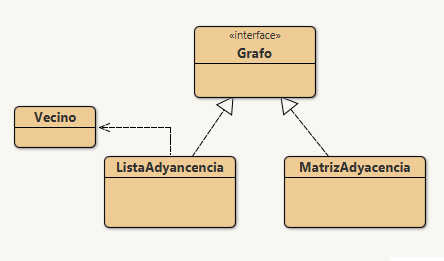
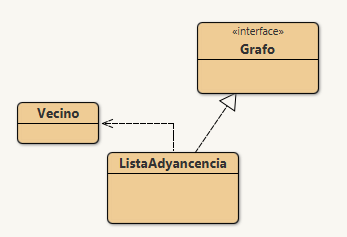
mejora en el VerificadorDirigido, update README

diff --git a/src/test/ListaAdyacenciaTest3.java b/src/test/ListaAdyacenciaTest3.java
@@ -9,12 +9,12 @@ import java.util.ArrayList;
 
 import static org.junit.Assert.*;
 
-public class ListaAdyacenciaTest2 {
+public class ListaAdyacenciaTest3 {
     private ListaAdyacencia grafo;
     @Before
     public void setUp() {
         grafo = new ListaAdyacencia(false);
-        int[] nodos = {0, 1, 2, 3};
+        int[] nodos = {0, 1, 2, 3, 4};
 
         for (int nodo : nodos) {
             grafo.insertarVertice(nodo);
@@ -23,20 +23,24 @@ public class ListaAdyacenciaTest2 {
         grafo.insertarArista(0, 1);
         grafo.insertarArista(0, 2);
         grafo.insertarArista(0, 3);
+        grafo.insertarArista(0, 4);
         grafo.insertarArista(1, 2);
         grafo.insertarArista(1, 3);
         grafo.insertarArista(2, 3);
+        grafo.insertarArista(2, 4);
+        grafo.insertarArista(3, 4);
+        grafo.insertarArista(4, 1);
 
     }
 
     @Test
     public void getNumVertices() {
-        assertEquals(4, grafo.getNumVertices());
+        assertEquals(5, grafo.getNumVertices());
     }
 
     @Test
     public void getNumAristas() {
-        assertEquals(6, grafo.getNumAristas());
+        assertEquals(10, grafo.getNumAristas());
     }
 
     @Test
@@ -45,24 +49,13 @@ public class ListaAdyacenciaTest2 {
     }
 
     @Test
-    public void getPesoArista() throws Exception {
-        double peso = grafo.getPesoArista(0, 1);
-        assertEquals(Double.MIN_VALUE, peso, 0.001);
+    public void noExisteArista() {
+        assertFalse(grafo.existeArista(0, 0));
     }
 
     @Test
-    public void getAdyacentesCero() {
-        ArrayList<Vecino> adyacentes = new ArrayList<Vecino>();
-        adyacentes.add(new Vecino(3, Double.MIN_VALUE));
-        adyacentes.add(new Vecino(1, Double.MIN_VALUE));
-        adyacentes.add(new Vecino(2, Double.MIN_VALUE));
-
-        boolean iguales = true;
-        for (Vecino vecino : grafo.getAdyacentes(0)) {
-            if(!adyacentes.contains(vecino)) iguales = false;
-        }
-
-        assertTrue(iguales);
+    public void getPesoArista() throws Exception{
+        assertEquals(Double.MIN_VALUE, grafo.getPesoArista(0, 1), 0.0);
     }
 
     @Test
@@ -71,6 +64,7 @@ public class ListaAdyacenciaTest2 {
         adyacentes.add(new Vecino(0, Double.MIN_VALUE));
         adyacentes.add(new Vecino(1, Double.MIN_VALUE));
         adyacentes.add(new Vecino(2, Double.MIN_VALUE));
+        adyacentes.add(new Vecino(4, Double.MIN_VALUE));
 
         boolean iguales = true;
         for (Vecino vecino : grafo.getAdyacentes(3)) {
@@ -82,8 +76,8 @@ public class ListaAdyacenciaTest2 {
 
     @Test
     public void quitarArista() {
-        grafo.quitarArista(0, 3);
-        assertFalse(grafo.existeArista(0, 3));
+        grafo.quitarArista(0, 1);
+        assertFalse(grafo.existeArista(0, 1));
     }
 
     @Test
@@ -98,7 +92,7 @@ public class ListaAdyacenciaTest2 {
 
     @Test
     public void esGrafoRueda() {
-        assertTrue(grafo.esGrafoRueda());
+        assertFalse(grafo.esGrafoRueda());
     }
 
     @Test
@@ -108,7 +102,7 @@ public class ListaAdyacenciaTest2 {
 
     public static void main(String[] args) {
         ListaAdyacencia grafo = new ListaAdyacencia(false);
-        int[] nodos = {0, 1, 2, 3};
+        int[] nodos = {0, 1, 2, 3, 4};
 
         for (int nodo : nodos) {
             grafo.insertarVertice(nodo);
@@ -117,9 +111,13 @@ public class ListaAdyacenciaTest2 {
         grafo.insertarArista(0, 1);
         grafo.insertarArista(0, 2);
         grafo.insertarArista(0, 3);
+        grafo.insertarArista(0, 4);
         grafo.insertarArista(1, 2);
         grafo.insertarArista(1, 3);
         grafo.insertarArista(2, 3);
+        grafo.insertarArista(2, 4);
+        grafo.insertarArista(3, 4);
+        grafo.insertarArista(4, 1);
 
         grafo.dibujarGrafo();
     }

diff --git a/src/main/Main.java b/src/main/Main.java
@@ -1,28 +1,30 @@
 package main;
-import org.junit.Test;
-import org.junit.jupiter.api.AfterEach;
-
-import static org.junit.jupiter.api.Assertions.*;
-
-import logic.ListaAdyacencia;
 
 public class Main {
-    @Test
-    public void test1() {
-        ListaAdyacencia grafo = new ListaAdyacencia(true);
-        int[] nodos = {0, 1, 2, 3};
+    public static void main(String[] args) {
+        Thread test1 = new Thread(new Runnable() {
+            @Override
+            public void run() {
+                org.junit.runner.JUnitCore.main("test.ListaAdyacenciaTest1");
+            }
+        });
 
-        for (int nodo : nodos) {
-            grafo.insertarVertice(nodo);
-        }
+        Thread test2 = new Thread(new Runnable() {
+            @Override
+            public void run() {
+                org.junit.runner.JUnitCore.main("test.ListaAdyacenciaTest2");
+            }
+        });
 
-        grafo.insertarArista(0, 1, 3);
-        grafo.insertarArista(3, 0, 3);
-        grafo.insertarArista(3, 1, 2);
-        grafo.insertarArista(3, 2, 10);
-        grafo.insertarArista(2, 1, 9);
-        grafo.insertarArista(2, 0, 6);
+        Thread test3 = new Thread(new Runnable() {
+            @Override
+            public void run() {
+                org.junit.runner.JUnitCore.main("test.ListaAdyacenciaTest3");
+            }
+        });
 
-        assertEquals(grafo.getNumVertices(),4);
+        test1.start();
+        test2.start();
+        test3.start();
     }
 }

diff --git a/src/logic/VerificadorDirigido.java b/src/logic/VerificadorDirigido.java
@@ -1,5 +1,7 @@
 package logic;
 
+import java.util.ArrayList;
+
 public class VerificadorDirigido extends Verificador {
     public VerificadorDirigido(Grafo grafo) {
         super(grafo);
@@ -9,14 +11,29 @@ public class VerificadorDirigido extends Verificador {
     public boolean esCompleto() {
         int nVertices = grafo.getNumVertices();
         int nAristas    = grafo.getNumAristas();
-        return 2*((nVertices*(nVertices-1))/2) == nAristas;
+        int a = nVertices*(nVertices-1)/2;
+        int b = 2*((nVertices*(nVertices-1))/2);
+        return  nAristas >= a && nAristas <= b;
     }
 
     @Override
     public boolean esGrafoCiclo() {
-        int nVertices = grafo.getNumVertices();
-        int nAristas    = grafo.getNumAristas();
-        return 2*nVertices == nAristas;
+        int ini = 0, v = ini, ant = grafo.getNumVertices() - 1;
+        for(int i = 0; i < grafo.getNumVertices(); i++) {
+            ArrayList<Vecino> vecinos = (ArrayList<Vecino>) grafo.getAdyacentes(v);
+            if(vecinos.size() > 2) return false;
+            else{
+                int aux = v;
+                for (Vecino vecino : vecinos) {
+                    if(vecino.getValor() != ant){
+                        aux = vecino.getValor();
+                    }
+                }
+                ant = v;
+                v = aux;
+            }
+        }
+        return ini == v;
     }
 
     @Override

diff --git a/src/logic/Verificador.java b/src/logic/Verificador.java
@@ -14,20 +14,12 @@ public abstract class Verificador {
     public abstract boolean esGrafoRueda();
 
     protected boolean existeBucle() {
-        if(grafo instanceof ListaAdyacencia) {
-            ListaAdyacencia g = (ListaAdyacencia) grafo;
-            HashMap<Integer, ArrayList<Vecino>> gM = g.getGrafo();
-            for(Integer i : gM.keySet()) {
-                ArrayList<Vecino> vecinos = gM.get(i);
-                for(Vecino v : vecinos) {
-                    if(v.getValor() == i) return true;
-                }
-            }
-        }else{
-            MatrizAdyacencia g = (MatrizAdyacencia) grafo;
-            int[][] matriz = g.getMatriz();
-            for (int i = 0; i < matriz.length; i++) {
-                if(matriz[i][i] != 0) return true;
+        ListaAdyacencia g = (ListaAdyacencia) grafo;
+        HashMap<Integer, ArrayList<Vecino>> gM = g.getGrafo();
+        for(Integer i : gM.keySet()) {
+            ArrayList<Vecino> vecinos = gM.get(i);
+            for(Vecino v : vecinos) {
+                if(v.getValor() == i) return true;
             }
         }
         return false;

diff --git a/src/test/ListaAdyacenciaTest1.java b/src/test/ListaAdyacenciaTest1.java
@@ -5,6 +5,8 @@ import logic.Vecino;
 import org.junit.Before;
 import org.junit.Test;
 
+import javax.swing.*;
+import java.awt.*;
 import java.util.ArrayList;
 
 import static org.junit.Assert.*;
@@ -83,7 +85,7 @@ public class ListaAdyacenciaTest1 {
 
     @Test
     public void esCompleto() {
-        assertFalse(grafo.esCompleto());
+        assertTrue(grafo.esCompleto());
     }
 
     @Test
@@ -99,5 +101,24 @@ public class ListaAdyacenciaTest1 {
     @Test
     public void existeBucle() {
         assertFalse(grafo.existeBucle());
+    }
+
+    public static void main(String[] args) {
+        ListaAdyacencia grafo = new ListaAdyacencia(true);
+        int[] nodos = {0, 1, 2, 3};
+
+        for (int nodo : nodos) {
+            grafo.insertarVertice(nodo);
+        }
+
+        grafo.insertarArista(0, 1, 3);
+        grafo.insertarArista(3, 0, 3);
+        grafo.insertarArista(3, 1, 2);
+        grafo.insertarArista(3, 2, 10);
+        grafo.insertarArista(2, 1, 9);
+        grafo.insertarArista(2, 0, 6);
+
+        grafo.dibujarGrafo();
+
     }
 }

diff --git a/src/graphic/Arista.java b/src/graphic/Arista.java
@@ -103,6 +103,7 @@ public class Arista {
         Graphics2D g2 = (Graphics2D) g;
         g2.setColor(color);
         g2.setStroke(new BasicStroke(3));
+
         if(!oF.equals(dF)) {
             Linea recta = (flecha) ? new Flecha(o1, d1) : new Recta(o1, d1);
             recta.paint(g2);

diff --git a/src/graphic/Flecha.java b/src/graphic/Flecha.java
@@ -31,7 +31,6 @@ public class Flecha implements Linea {
     }
 
     public void paint(Graphics2D g) {
-        g.setColor(Color.BLACK);
         Recta recta = new Recta(origen, destino);
         Recta arista1 = obtenerArista(45);
         Recta arista2 = obtenerArista(-45);

diff --git a/src/graphic/GraphPanel.java b/src/graphic/GraphPanel.java
@@ -33,7 +33,6 @@ public class GraphPanel extends JPanel {
 
     public void addVertices(Vertice[] v) {
         for (Vertice vertice : v) {
-            //System.out.println(vertice.getLocation());
             vertices.add(vertice);
         }
     }

diff --git a/README.md b/README.md
@@ -2,7 +2,21 @@
 > Pantoja Bustamante Gabriel
 ## Implementación Base
 
-![Diagrama de Clases](./assets/diagramaG.png)
+![Diagrama de Clases](./assets/diagramaG.png "Diagrama")
+
+## Métodos 
+- [Número de Vertices](#número-de-vertices)
+- [Número de Aristas](#número-de-aristas)
+- [Existe Arista](#existe-arista)
+- [Peso Arista](#peso-arista)
+- [Insertar Arista](#insertar-arista)
+- [Obtener Adyacentes](#obtener-adyacentes)
+- [Dibujar Grafo](#dibujar-grafo)
+- [Quitar Arista](#quitar-arista)
+- [Es Grafo Completo](#es-grafo-completo)
+- [Es Grafo Ciclo](#es-grafo-ciclo)
+- [Es Grafo Rueda](#es-grafo-rueda)
+- [Existe Bucle](#existe-bucle)
 
 ## Lista de Adyacencia
 
@@ -10,7 +24,21 @@
 private HashMap<Integer, ArrayList<Vecino>> grafo;
 ```
 
-## Matriz de Adyacencia
+### Número de Aristas. [métodos](#métodos)
+Devolvemos la variable que cuenta las Aristas.
 ```java
-private int[][] matriz;
+  private int cantAristas;
 ```
+
+### Existe Arista. [métodos](#métodos)
+### Peso Arista [métodos](#métodos)
+### Insertar Arista. [métodos](#métodos)
+### Obtener Adyacentes. [métodos](#métodos)
+### Dibujar Grafo. [métodos](#métodos)
+### Quitar Arista. [métodos](#métodos)
+### Es Grafo Completo. [métodos](#métodos)
+### Es Grafo Ciclo. [métodos](#métodos)
+### Es Grafo Rueda. [métodos](#métodos)
+### Existe Bucle. [métodos](#métodos)
+
+
